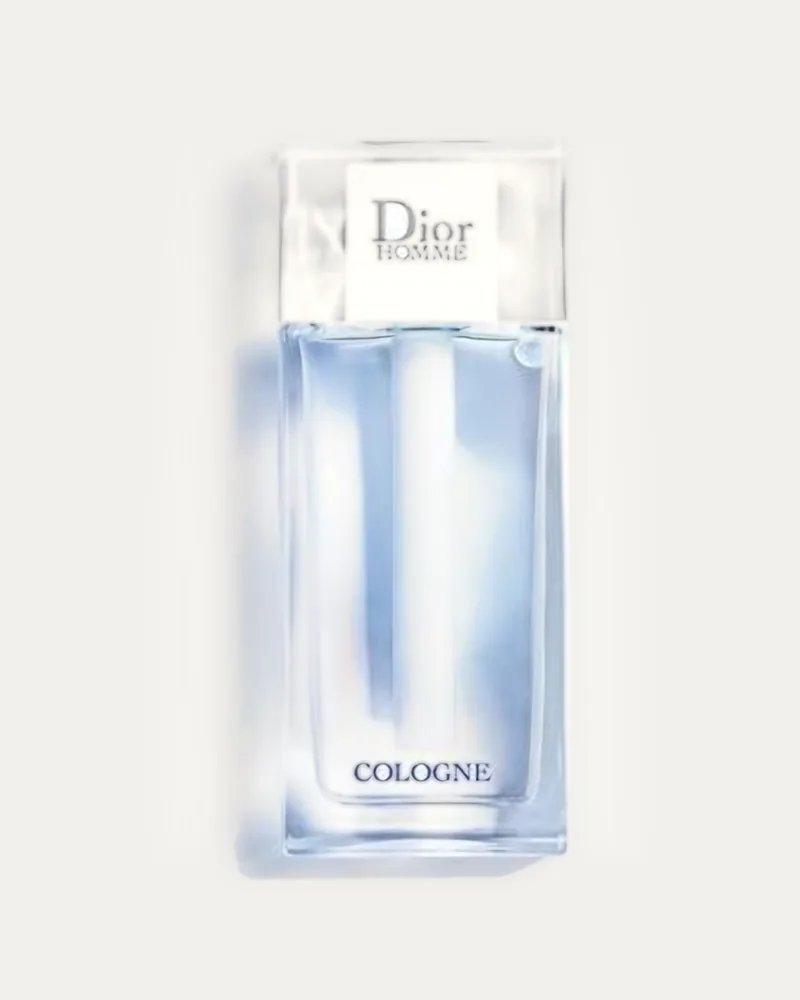
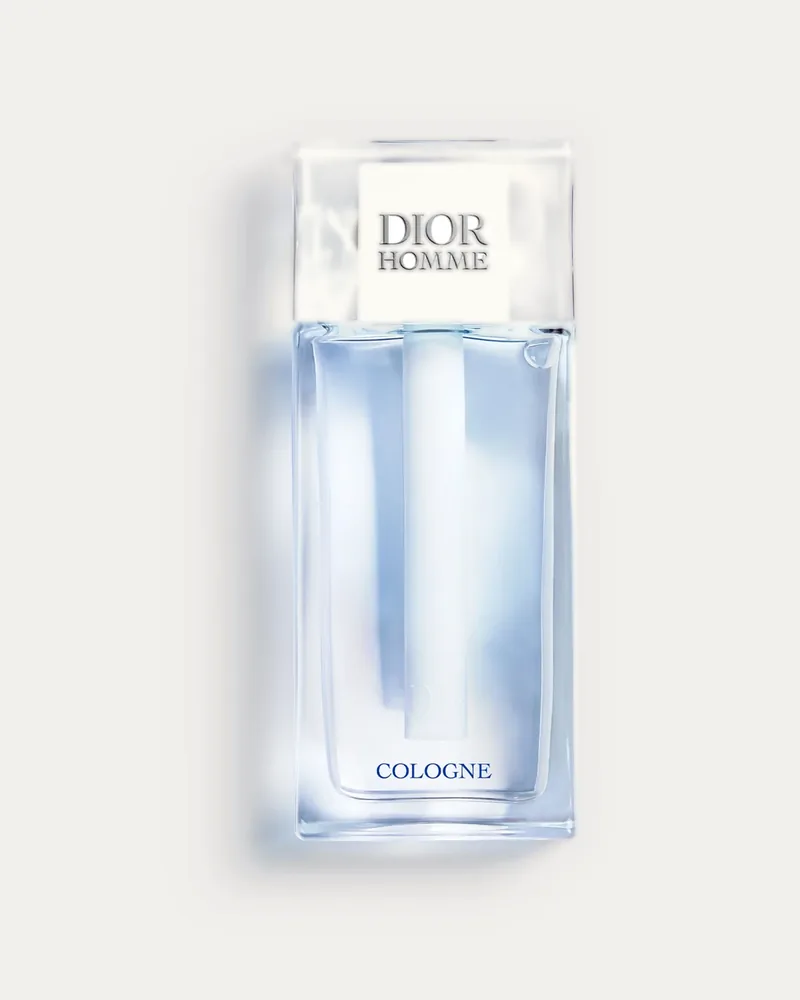
Zdjęcia p51 i p52 od właściciela, bon 50 zł za opóźnienie realizacji
- p52 Dior Sauvage Parfum (etykieta PARFUM, EDSR x2) i nowe p51 Dior Homme Cologne
  (1333 × 2000 px) z plików przysłanych w rozmowie; wszystkie 64 aktywne zapachy mają zdjęcie.
- zdjecia_wlasciciela.py: opcjonalna lista id, przetwarza tylko wskazane zdjęcia
  i podmienia ich wiersze w zrodla-wlasciciel.csv.
- Realizacja dłuższa niż 7 dni roboczych: bon 50 zł na kolejne zakupy od 199 zł
  w gwarancjach, FAQ, regulaminie (punkt 5, z TODO na zasady bonu) i w refs/README.md.
- docs: potwierdzony e-mail i termin 7 dni roboczych, decyzje 55 i 56, lista przed
  publikacją z pytaniami o wykorzystanie bonu.

Claude-Session: https://claude.ai/code/session_01Vr3aaGiTkwi36SuxXxU5aS

diff --git a/site/index.html b/site/index.html
@@ -299,7 +299,7 @@
     <li class="guarantee">
       <span class="guarantee__icon" aria-hidden="true"><svg viewBox="0 0 32 32" width="40" height="40" fill="none" stroke="currentColor" stroke-width="1.5" stroke-linecap="round" stroke-linejoin="round"><path d="M5 10.5 16 5l11 5.5v11L16 27 5 21.5Z"/><path d="M5 10.5 16 16l11-5.5M16 16v11M10.5 7.8l11 5.5"/></svg></span>
       <h3 class="guarantee__title">Wysyłka ze śledzeniem</h3>
-      <p>Paczkę nadajemy zwykle w ciągu 1 dnia roboczego od zaksięgowania wpłaty, a gdy zapach musimy sprowadzić, w ciągu 5 dni roboczych. W chwili nadania dostajesz mail z numerem przesyłki i linkiem do śledzenia.</p>
+      <p>Paczkę nadajemy zwykle w ciągu 1 dnia roboczego od zaksięgowania wpłaty, a gdy zapach musimy sprowadzić, w ciągu 5 dni roboczych. W chwili nadania dostajesz mail z numerem przesyłki i linkiem do śledzenia. Jeśli całe zamówienie zajmie nam więcej niż 7 dni roboczych, dostaniesz od nas bon na 50&nbsp;zł na kolejne zakupy za co najmniej 199&nbsp;zł.</p>
     </li>
   </ul></div>
 </section>
@@ -314,7 +314,7 @@
 <details class="faq__item" name="faq"><summary class="faq__q"><span>Jak wygląda odlewka i atomizer?</span><span class="faq__icon" aria-hidden="true"></span></summary><div class="faq__a"><p>Zapach przelewamy ręcznie do atomizera z rozpylaczem, w pojemności 5, 10 albo 20&nbsp;ml. W środku jest szklany flakonik w plastikowej oprawie, a na atomizerze etykieta z nazwą zapachu. Zmieści się w kieszeni i w kosmetyczce.</p></div></details>
 <details class="faq__item" name="faq"><summary class="faq__q"><span>Jak zapłacić BLIKiem na telefon?</span><span class="faq__icon" aria-hidden="true"></span></summary><div class="faq__a"><p>Po złożeniu zamówienia pokażemy numer telefonu, kwotę i tytuł przelewu, czyli numer zamówienia, na przykład NF0101. W aplikacji banku wybierasz przelew na telefon BLIK i przepisujesz te dane. To samo wyślemy Ci mailem. Wolisz zwykły przelew? Numer konta też tam będzie.</p></div></details>
 <details class="faq__item" name="faq"><summary class="faq__q"><span>Kiedy potwierdzicie moją wpłatę?</span><span class="faq__icon" aria-hidden="true"></span></summary><div class="faq__a"><p>Wpłaty sprawdzamy ręcznie w banku, rano i wieczorem. Gdy zobaczymy przelew z numerem zamówienia w tytule, potwierdzamy wpłatę, a Ty od razu dostajesz od nas maila.</p></div></details>
-<details class="faq__item" name="faq"><summary class="faq__q"><span>Ile trwa wysyłka?</span><span class="faq__icon" aria-hidden="true"></span></summary><div class="faq__a"><p>Wysyłamy tylko w Polsce, do paczkomatu InPost albo kurierem InPost, DPD lub DHL. Gdy zapach mamy na miejscu, paczka wychodzi zwykle w ciągu 1 dnia roboczego od zaksięgowania wpłaty. Jeśli musimy go sprowadzić, trwa to do 5 dni roboczych, a całe zamówienie realizujemy najpóźniej w 7 dni roboczych. Po nadaniu dostaniesz mail z numerem przesyłki i linkiem do śledzenia.</p></div></details>
+<details class="faq__item" name="faq"><summary class="faq__q"><span>Ile trwa wysyłka?</span><span class="faq__icon" aria-hidden="true"></span></summary><div class="faq__a"><p>Wysyłamy tylko w Polsce, do paczkomatu InPost albo kurierem InPost, DPD lub DHL. Gdy zapach mamy na miejscu, paczka wychodzi zwykle w ciągu 1 dnia roboczego od zaksięgowania wpłaty. Jeśli musimy go sprowadzić, trwa to do 5 dni roboczych, a całe zamówienie realizujemy najpóźniej w 7 dni roboczych. Jeśli potrwa to dłużej, dostaniesz od nas bon na 50&nbsp;zł na kolejne zakupy za co najmniej 199&nbsp;zł. Po nadaniu dostaniesz mail z numerem przesyłki i linkiem do śledzenia.</p></div></details>
 <details class="faq__item" name="faq"><summary class="faq__q"><span>Co jeśli zapłacę po terminie rezerwacji?</span><span class="faq__icon" aria-hidden="true"></span></summary><div class="faq__a"><p>Rezerwację trzymamy 24 godziny od złożenia zamówienia. Po 12 godzinach bez wpłaty przypomnimy się mailem, a po 24 rezerwacja wygasa i zapachy wracają do katalogu. Jeśli wpłata przyjdzie po terminie, i tak zrealizujemy zamówienie.</p></div></details>
 <details class="faq__item" name="faq"><summary class="faq__q"><span>Czy mogę zwrócić odlewkę?</span><span class="faq__icon" aria-hidden="true"></span></summary><div class="faq__a"><p>Odlewek nie przyjmujemy z powrotem. Jeśli jednak zapach dobieraliśmy razem na Instagramie i nie pasuje, wymienimy pełną odlewkę na inny z tej samej półki cenowej. Wynik quizu nie liczy się jako taka konsultacja. <span data-todo="faq-zwrot">{TODO: prawnik: zgodność z prawem odstąpienia od umowy, art. 38 ustawy o prawach konsumenta}</span></p></div></details>
 <details class="faq__item" name="faq"><summary class="faq__q"><span>Jak długo zapach utrzymuje się w odlewce?</span><span class="faq__icon" aria-hidden="true"></span></summary><div class="faq__a"><p>W atomizerze jest dokładnie ten sam zapach co we flakonie. Trzymaj go z dala od słońca i ciepła, wtedy długo się nie zmienia.</p></div></details>

diff --git a/site/regulamin.html b/site/regulamin.html
@@ -81,7 +81,7 @@
     </section>
     <section class="legal__sec" id="s5">
       <h2>5. Dostawa</h2>
-      <p>Wysyłamy wyłącznie na terenie Polski, do paczkomatu InPost albo kurierem InPost, DPD lub DHL. Koszt dostawy widać w podsumowaniu przed złożeniem zamówienia. Paczkę nadajemy zwykle w ciągu 1 dnia roboczego od zaksięgowania wpłaty, a gdy zapach trzeba sprowadzić, w ciągu 5 dni roboczych. Zamówienie realizujemy najpóźniej w 7 dni roboczych od zaksięgowania wpłaty. Numer przesyłki wysyłamy mailem.</p>
+      <p>Wysyłamy wyłącznie na terenie Polski, do paczkomatu InPost albo kurierem InPost, DPD lub DHL. Koszt dostawy widać w podsumowaniu przed złożeniem zamówienia. Paczkę nadajemy zwykle w ciągu 1 dnia roboczego od zaksięgowania wpłaty, a gdy zapach trzeba sprowadzić, w ciągu 5 dni roboczych. Zamówienie realizujemy najpóźniej w 7 dni roboczych od zaksięgowania wpłaty. Jeśli realizacja potrwa dłużej, dostaniesz bon o wartości 50&nbsp;zł na kolejne zakupy, do wykorzystania przy zamówieniu o wartości co najmniej 199&nbsp;zł. <span data-todo>{TODO: zasady bonu do potwierdzenia z właścicielem i prawnikiem: jak go przekazujemy i jak z niego skorzystać, termin ważności, czy 199 zł liczymy z kosztem dostawy}</span> Numer przesyłki wysyłamy mailem.</p>
     </section>
     <section class="legal__sec" id="s6">
       <h2>6. Prawo odstąpienia od umowy</h2>

diff --git a/dev/zdjecia/zdjecia_wlasciciela.py b/dev/zdjecia/zdjecia_wlasciciela.py
@@ -3,14 +3,15 @@
 Zdjęcia flakonów przysłane przez właściciela (Dysk, folder „Nicci Fragrance”), dla produktów, których strony
 producentów blokują pobieranie.
 
-  python3 dev/zdjecia/zdjecia_wlasciciela.py <katalog_z_plikami_z_dysku>
+  python3 dev/zdjecia/zdjecia_wlasciciela.py <katalog_z_plikami_z_dysku> [id ...]
   python3 dev/zdjecia/ujednolic_zdjecia.py dev/zdjecia/zrodla/wlasciciel
 
 Pierwszy krok kopiuje pliki pod nazwą id produktu do dev/zdjecia/zrodla/wlasciciel/ (poza gitem). Zdjęcie, którego
 krótszy bok ma mniej niż 1000 px, najpierw powiększa EDSR (x2, w razie potrzeby dwa razy), bo na karcie flakon
 ma ok. 740 px wysokości. Potem czyści tło (czyste_tlo) i zapisuje bezstratnie jako PNG. Wymaga
 opencv-contrib-python-headless w venv, jak dev/grafiki/hero_telefon.py.
-Źródła trafiają do dev/zdjecia/zrodla-wlasciciel.csv (raport końcowy).
+Źródła trafiają do dev/zdjecia/zrodla-wlasciciel.csv (raport końcowy). Z listą id skrypt przetwarza tylko te
+zdjęcia i podmienia ich wiersze w CSV, reszty nie rusza.
 """
 import csv
 import os
@@ -29,8 +30,8 @@ JASNE = 250          # tło JPG: piksele jaśniejsze od tego progu, połączone 
 # PNG, w których wokół flakonu zostały nieprzezroczyste białe resztki tła (p64: pola obok nakrętki)
 RESZTKI_BIELI = {'p64': 245}
 
-# id: plik z Dysku. p52 (Sauvage Parfum) celowo pominięty: przysłany plik to Sauvage Eau de Parfum
-# (inne stężenie, etykieta „EAU DE PARFUM”), czekamy na właściwe zdjęcie.
+# id: plik od właściciela. Większość z folderu na Dysku; p51 i p52 przysłane później w rozmowie („(czat)” w nazwie):
+# pierwszy plik p52 z Dysku przedstawiał Sauvage Eau de Parfum, a pierwsze p51 miało tylko 640 × 335 px.
 PLIKI = {
     'p01': 'louis-vuitton-imagination--LP0476_PM2_Front view.webp',
     'p02': 'louis-vuitton-pacific-chill---LP0460_PM2_Front view.webp',
@@ -39,7 +40,8 @@ PLIKI = {
     'p05': 'louis-vuitton-ombre-nomade--LP0096_PM2_Front view.webp',
     'p42': 'grandsoirpack.png',
     'p43': 'Maison_Francis_Kurdjian_-_Baccarat_Rouge_540_disponible_en_abanuc.webp',
-    'p51': 'Dior Homme Cologne.jpg',
+    'p51': 'dior-homme-cologne (czat).webp',
+    'p52': 'dior-sauvage-parfum (czat).png',
     'p53': 'sauvage elixir.png',
     'p54': 'dior-sauvage-extrait-parfum.png',
     'p55': 'versace-eros-parfum-perfume-cologne-238192.webp',
@@ -89,10 +91,12 @@ def czyste_tlo(im, pid):
 
 
 def main():
-    src_dir = sys.argv[1]
+    src_dir, only = sys.argv[1], set(sys.argv[2:])
     os.makedirs(OUT, exist_ok=True)
     rows = []
     for pid, name in PLIKI.items():
+        if only and pid not in only:
+            continue
         im = Image.open(os.path.join(src_dir, name))
         im = im.convert('RGBA') if im.mode in ('RGBA', 'LA', 'P') else im.convert('RGB')
         if im.mode == 'RGBA' and im.getchannel('A').getextrema()[0] == 255:
@@ -111,10 +115,16 @@ def main():
         rows.append({'id': pid, 'plik_od_wlasciciela': name, 'rozmiar_zrodla': '%dx%d' % size0,
                      'powiekszenie': 'EDSR x%d' % (2 ** steps) if steps else ''})
         print(pid, name, size0, '->', im.size, ('EDSR x%d' % (2 ** steps)) if steps else '')
-    with open(os.path.join(HERE, 'zrodla-wlasciciel.csv'), 'w', newline='', encoding='utf-8') as f:
+    report = os.path.join(HERE, 'zrodla-wlasciciel.csv')
+    merged = {}
+    if only and os.path.exists(report):
+        with open(report, newline='', encoding='utf-8') as f:
+            merged = {r['id']: r for r in csv.DictReader(f)}
+    merged.update({r['id']: r for r in rows})
+    with open(report, 'w', newline='', encoding='utf-8') as f:
         w = csv.DictWriter(f, fieldnames=['id', 'plik_od_wlasciciela', 'rozmiar_zrodla', 'powiekszenie'])
         w.writeheader()
-        w.writerows(rows)
+        w.writerows(merged[k] for k in sorted(merged))
 
 
 if __name__ == '__main__':

diff --git a/docs/raport-koncowy.md b/docs/raport-koncowy.md
@@ -42,6 +42,7 @@ Każdy `{TODO}` na stronie ma przerywaną ramkę (`[data-todo]`), więc widać g
 | `regulamin.html:66`, `prywatnosc.html:66` | imię i nazwisko oraz adres sprzedawcy i administratora danych |
 | `regulamin.html:70` | sformułowanie i status sprzedaży odlewek |
 | `regulamin.html:75` | moment zawarcia umowy: złożenie zamówienia czy zaksięgowanie wpłaty |
+| `regulamin.html:84` | zasady bonu 50 zł za realizację dłuższą niż 7 dni roboczych: przekazanie i wykorzystanie, termin ważności, próg z dostawą czy bez |
 | `regulamin.html:88` | prawo odstąpienia, formularz odstąpienia; zasady właściciela są wpisane w TODO do oceny |
 | `regulamin.html:92` | reklamacje: jak zgłosić, termin odpowiedzi, zwrot pieniędzy |
 | `regulamin.html:100` | prawo właściwe, pozasądowe rozwiązywanie sporów, data wejścia w życie |
@@ -66,7 +67,7 @@ Hero i grafika Open Graph powstały z materiału właściciela (`refs/hero-czyst
 
 ## 3. Źródła zdjęć produktów
 
-63 z 64 aktywnych produktów ma zdjęcie: 49 ze stron producentów (tabela niżej) i 14 od właściciela (akapit pod tabelą). Źródło tych 49: oficjalne strony i sklepy producentów. `robots.txt` każdej domeny był sprawdzony i przestrzegany, Fragrantiki nie pobieraliśmy, a zabezpieczeń przed botami (403, Cloudflare) nie obchodziliśmy. Pełne adresy obrazów: `dev/zdjecia/zrodla-wybrane.csv` (użyte) i `dev/zdjecia/zrodla.csv` (wszyscy kandydaci). Obróbka: tło #F1EFEC, kadr 4:5, flakon bez zmian (`dev/zdjecia/ujednolic_zdjecia.py`).
+Wszystkie 64 aktywne produkty mają zdjęcie: 49 ze stron producentów (tabela niżej) i 15 od właściciela (akapit pod tabelą). Źródło tych 49: oficjalne strony i sklepy producentów. `robots.txt` każdej domeny był sprawdzony i przestrzegany, Fragrantiki nie pobieraliśmy, a zabezpieczeń przed botami (403, Cloudflare) nie obchodziliśmy. Pełne adresy obrazów: `dev/zdjecia/zrodla-wybrane.csv` (użyte) i `dev/zdjecia/zrodla.csv` (wszyscy kandydaci). Obróbka: tło #F1EFEC, kadr 4:5, flakon bez zmian (`dev/zdjecia/ujednolic_zdjecia.py`).
 
 To materiały marek. Przed startem warto potwierdzić prawo do ich użycia albo zastąpić je własnymi zdjęciami flakonów i atomizerów Nicci.
 
@@ -122,7 +123,7 @@ To materiały marek. Przed startem warto potwierdzić prawo do ich użycia albo 
 | p70 | Azzaro | Forever Wanted Elixir | https://www.azzaro.com/en/fragrances/azzaro-forever-wanted-elixir/eau-de-parfum |  |
 | p71 | Azzaro | The Most Wanted Parfum | https://www.azzaro.com/en/fragrances/azzaro-the-most-wanted/parfum |  |
 
-**Zdjęcia od właściciela (24.09.2026):** 14 z 15 produktów, których strony producentów blokują pobieranie (p01 do p05, p42, p43, p51, p53 do p55, p63 do p65), ma zdjęcie z folderu „Nicci Fragrance” na Dysku właściciela. Pliki i rozmiary źródeł: `dev/zdjecia/zrodla-wlasciciel.csv`, obróbka opisana w `docs/03-plan-grafik.md`. Brakuje p52 Dior Sauvage Parfum (przysłany plik przedstawia Sauvage Eau de Parfum), karta pokazuje kadr zastępczy z inicjałem marki. p51 ma słabe źródło (640 × 335 px).
+**Zdjęcia od właściciela (24.09.2026):** wszystkie 15 produktów, których strony producentów blokują pobieranie (p01 do p05, p42, p43, p51 do p55, p63 do p65), ma zdjęcie od właściciela: 13 z folderu „Nicci Fragrance” na Dysku, p51 i p52 z plików przysłanych w rozmowie. Pliki i rozmiary źródeł: `dev/zdjecia/zrodla-wlasciciel.csv`, obróbka opisana w `docs/03-plan-grafik.md`.
 
 ## 4. Wyniki audytu
 
@@ -193,7 +194,7 @@ Opisy, nuty, sezon, pora, trwałość, projekcja i intensywność są uzupełnio
 
 **Stanów:** `ml_dostepne` puste w 62 produktach (patrz blokada 1). Wypełnione tylko p34 i p37, oba 0 ml.
 
-**Zdjęć:** p52 Dior Sauvage Parfum (punkt 3).
+**Zdjęć:** brak braków, wszystkie 64 aktywne produkty mają zdjęcie (punkt 3).
 
 **Cen:** strona pokazuje tylko pojemności z ceną, więc te warianty są ukryte. p34 i p37 nie mają żadnej ceny i mają 0 ml, więc są wyprzedane (widać je po wyłączeniu filtra „Tylko dostępne”). Produkt ze stanem, ale bez żadnej ceny, backend teraz pomija, a diagnostyka zgłasza go jako błąd.
 
@@ -207,7 +208,7 @@ Opisy, nuty, sezon, pora, trwałość, projekcja i intensywność są uzupełnio
 
 **Zestawów:** żaden z 6 aktywnych nie ma opisu dla klienta (arkusz ma tylko opis dla doradcy). Rodzinę ma tylko z04, więc quiz nie proponuje zestawu z innych rodzin. z04 jest niedostępny, bo zawiera p34 (0 ml); z07 zawiera p60, który jest nieaktywny.
 
-**Pola do weryfikacji:** `dev/dane/do-weryfikacji.csv`, 119 wierszy dla 61 pozycji (najwięcej: rodzina 28, sezon 19, nuty i osiągi 17, podobne 10; stan na 24.09.2026, po dodaniu zdjęć właściciela). Okazja p01 w źródle to liczba 11, więc w imporcie jest pusta.
+**Pola do weryfikacji:** `dev/dane/do-weryfikacji.csv`, 118 wierszy dla 60 pozycji (najwięcej: rodzina 28, sezon 19, nuty i osiągi 17, podobne 10; stan na 24.09.2026, po dodaniu zdjęć właściciela). Okazja p01 w źródle to liczba 11, więc w imporcie jest pusta.
 
 **Profil:** w arkuszu są tylko zapachy męskie (25) i unisex (39). Odpowiedź „Dla niej” w quizie pokazuje zapachy unisex.
 

diff --git a/docs/lista-przed-publikacja.md b/docs/lista-przed-publikacja.md
@@ -1,6 +1,6 @@
 # Co przygotować przed publikacją
 
-Stan na 24.09.2026, po Twoich odpowiedziach. Odpowiedzi A, B, C, E i F są już na stronie, w mailach i w Apps Script (szczegóły w `docs/decyzje.md`, punkty 46 do 54). Zostało to, co poniżej.
+Stan na 24.09.2026, po Twoich odpowiedziach. Odpowiedzi A, B, C, E i F są już na stronie, w mailach i w Apps Script (szczegóły w `docs/decyzje.md`, punkty 46 do 56). E-mail `kontakt@niccifragrance.pl` i termin 7 dni roboczych potwierdziłeś. Zostało to, co poniżej.
 
 * **Część 1: wyślij mi.** Materiały i potwierdzenia, które wpiszę na stronę.
 * **Część 2: wpisujesz sam.** Dane do płatności i e-mail wpisujesz bezpośrednio w Apps Script. Repozytorium jest publiczne, więc te dane nie powinny w nim leżeć.
@@ -12,12 +12,16 @@ Stan na 24.09.2026, po Twoich odpowiedziach. Odpowiedzi A, B, C, E i F są już 
 
 ## Część 1. Wyślij mi
 
-### Potwierdzenia do Twoich odpowiedzi
+### Bon 50 zł za opóźnienie
+
+Na stronie i w regulaminie jest już Twoja zasada: jeśli realizacja potrwa dłużej niż 7 dni roboczych, klient dostaje bon na 50 zł na kolejne zakupy za co najmniej 199 zł. Brakuje ustaleń, bez których klient nie ma jak z bonu skorzystać:
 
 ```
-1. ★ Adres e-mail: w odpowiedzi było „kontakt@niccifrangrance.pl”, a domena to niccifragrance.pl.
-   Na stronie wpisałem kontakt@niccifragrance.pl. Zgadza się?
-2. „Realizacja do 7”: na stronie jest „najpóźniej w 7 dni roboczych” od zaksięgowania wpłaty. Zgadza się?
+1. Jak klient ma użyć bonu? Formularz zamówienia nie ma dziś pola na kod.
+   Propozycja: pole „Kod bonu” w zamówieniu i zakładka Bony w arkuszu (kod, kwota, próg, data ważności,
+   wykorzystany); backend sprawdza kod i odejmuje 50 zł od kwoty do zapłaty.
+2. Termin ważności bonu:
+3. Czy próg 199 zł liczymy z kosztem dostawy, czy tylko za zapachy:
 ```
 
 ### D. ★ Regulamin i polityka prywatności (wyślesz później)
@@ -31,12 +35,11 @@ Najlepiej gotowe teksty od prawnika. Szkielety są pod `/regulamin` i `/prywatno
 
 Obie strony mają dziś `noindex` i dopisek „nie publikować w tej postaci”. Po wstawieniu zatwierdzonych tekstów zdejmę jedno i drugie.
 
-### E. Zdjęcia: dwa flakony
+### E. Zdjęcia: gotowe
 
-14 z 15 flakonów ma już na stronie zdjęcie z Twojego Dysku. Przezroczyste i białe tła dostały ten sam jasny, ciepły kolor co pozostałe 49 kart (#F1EFEC), a nie czystą biel, żeby siatka katalogu była równa. Jeśli wolisz biel, mogę ją ustawić na wszystkich kartach. Zostały dwie sprawy:
+Wszystkie 15 flakonów ma na stronie Twoje zdjęcie, więc zdjęcie ma teraz każdy z 64 aktywnych zapachów. p51 Dior Homme Cologne i p52 Dior Sauvage Parfum są z plików przysłanych w rozmowie 24.09. Przezroczyste i białe tła dostały ten sam jasny, ciepły kolor co pozostałe karty (#F1EFEC), a nie czystą biel, żeby siatka katalogu była równa. Jeśli wolisz biel, mogę ją ustawić na wszystkich kartach.
 
-| id | Zapach | Co jest nie tak |
-|---|---|---|
+---|---|---|
 | p52 | Dior Sauvage Parfum | Plik z Dysku to Sauvage Eau de Parfum, inne stężenie i inna etykieta. Karta pokazuje kadr z inicjałami. |
 | p51 | Dior Homme Cologne | Jest na stronie, ale źródło ma 640 × 335 px i flakon zajmuje mały fragment. Powiększyłem je, ale ostrość jest słabsza niż przy innych kartach. Lepsze zdjęcie się przyda. |
 
@@ -89,8 +92,8 @@ Nie mam dostępu do Twojego konta Cloudflare. Połącz repozytorium według `doc
 5. Opisy zestawów dla klienta: żaden z 6 aktywnych nie ma (arkusz ma tylko opis dla doradcy). Możesz przysłać fakty, a ja napiszę teksty.
 6. Rodziny zestawów: ma ją tylko z04, więc quiz nie proponuje zestawu z innych rodzin.
 7. Zestaw z07 zawiera p60, który jest nieaktywny, więc zestaw jest niedostępny. Aktywować p60 czy zmienić skład?
-8. Plik do weryfikacji: dev/dane/do-weryfikacji.csv, 119 wierszy dla 61 pozycji; najwięcej dotyczy rodziny (28), sezonu (19), nut i osiągów (17) oraz podobnych zapachów (10). Każdy wiersz ma powód. Popraw w arkuszu albo odeślij mi decyzje.
-9. zdjecie_url: 14 zapachów z Twoimi zdjęciami ma adres w pliku importu dev/dane/import-do-arkusza.xlsx. Jeśli zakładkę Produkty wypełniłeś wcześniej, wpisz dla p01 do p05, p42, p43, p51, p53, p54, p55, p63, p64 i p65 adres /img/produkty/ID-800.webp (np. /img/produkty/p43-800.webp).
+8. Plik do weryfikacji: dev/dane/do-weryfikacji.csv, 118 wierszy dla 60 pozycji; najwięcej dotyczy rodziny (28), sezonu (19), nut i osiągów (17) oraz podobnych zapachów (10). Każdy wiersz ma powód. Popraw w arkuszu albo odeślij mi decyzje.
+9. zdjecie_url: 15 zapachów z Twoimi zdjęciami ma adres w pliku importu dev/dane/import-do-arkusza.xlsx. Jeśli zakładkę Produkty wypełniłeś wcześniej, wpisz dla p01 do p05, p42, p43 i p51 do p55, p63, p64 i p65 adres /img/produkty/ID-800.webp (np. /img/produkty/p43-800.webp).
 ```
 
 Po uzupełnieniu uruchom `diagnostyka` w Apps Script, wypisze to, co jeszcze się nie zgadza.

diff --git a/docs/03-plan-grafik.md b/docs/03-plan-grafik.md
@@ -95,12 +95,12 @@ Słownik `site/js/nuty.js` przypisuje nutę do miniatury po rdzeniu słowa (np. 
 | Sklep Shopify: wyszukiwarka i dane produktu | Xerjoff, Amouage, Creed, Tom Ford, Marc-Antoine Barrois, Maison Crivelli, Essential Parfums, Nutu, Tiziana Terenzi, Sospiro | 31 |
 | Strona produktu, `og:image` | Mancera, Montale, BOSS | 13 |
 | Strona budowana skryptem, render w Chromium | Rabanne, Azzaro | 6 |
-| Zdjęcia od właściciela (Dysk) | Louis Vuitton, Maison Francis Kurkdjian, Dior, Versace, YSL, Hermès | 14 |
-| **Razem ze zdjęciem** | | **63 z 64 aktywnych** |
+| Zdjęcia od właściciela (Dysk i rozmowa) | Louis Vuitton, Maison Francis Kurkdjian, Dior, Versace, YSL, Hermès | 15 |
+| **Razem ze zdjęciem** | | **64 z 64 aktywnych** |
 
 **Bez zdjęcia ze stron producentów (15), strony odpowiadają 403 albo ekranem Cloudflare także przeglądarce:** Louis Vuitton (Imagination, Pacific Chill, Afternoon Swim, Nouveau Monde, Ombre Nomade), Maison Francis Kurkdjian (Grand Soir, Baccarat Rouge 540), Dior (Homme Cologne, Sauvage Parfum, Sauvage Elixir, Sauvage Extrait), Versace (Eros Parfum), YSL (Y Parfum, MYSLF Parfum), Hermès (Terre d'Hermès Eau Intense Vétiver).
 
-**Zdjęcia od właściciela (24.09.2026, 14 z 15):** folder „Nicci Fragrance” na Dysku. `dev/zdjecia/zdjecia_wlasciciela.py` przypisuje pliki do id, zdjęcia z krótszym bokiem poniżej 1000 px powiększa EDSR ×2 (p42, p64 i p65 raz, p04, p51 i p54 dwa razy), usuwa kanał alfa bez przezroczystości, a jasne tło połączone z krawędzią zamienia na czystą biel (w p64 białe resztki przy nakrętce na przezroczystość). Szum tła (254 zamiast 255) trafiał do mapy cieniowania i zostawiał na karcie jaśniejszy prostokąt wokół flakonu. Pliki pośrednie są w PNG, bez stratnej kompresji. Potem `ujednolic_zdjecia.py dev/zdjecia/zrodla/wlasciciel`, z tym samym tłem #F1EFEC co reszta katalogu (przezroczyste tło też dostaje ten kolor zamiast białego, żeby siatka była równa). Nazwy plików i rozmiary źródeł: `dev/zdjecia/zrodla-wlasciciel.csv`. Brakuje p52 Sauvage Parfum: przysłany plik to Sauvage Eau de Parfum, inne stężenie i etykieta. p51 Dior Homme Cologne ma słabe źródło (640 × 335 px, mały flakon), więc przyda się lepsze zdjęcie.
+**Zdjęcia od właściciela (24.09.2026, 15 z 15):** folder „Nicci Fragrance” na Dysku, a p51 i p52 z plików przysłanych w rozmowie („(czat)” w nazwie). `dev/zdjecia/zdjecia_wlasciciela.py` przypisuje pliki do id, zdjęcia z krótszym bokiem poniżej 1000 px powiększa EDSR ×2 (p42, p52, p64 i p65 raz, p04 i p54 dwa razy), usuwa kanał alfa bez przezroczystości, a jasne tło połączone z krawędzią zamienia na czystą biel (w p64 białe resztki przy nakrętce na przezroczystość). Szum tła (254 zamiast 255) trafiał do mapy cieniowania i zostawiał na karcie jaśniejszy prostokąt wokół flakonu. Pliki pośrednie są w PNG, bez stratnej kompresji. Potem `ujednolic_zdjecia.py dev/zdjecia/zrodla/wlasciciel`, z tym samym tłem #F1EFEC co reszta katalogu (przezroczyste tło też dostaje ten kolor zamiast białego, żeby siatka była równa). Nazwy plików i rozmiary źródeł: `dev/zdjecia/zrodla-wlasciciel.csv`. Pierwsze pliki p51 (640 × 335 px) i p52 (Sauvage Eau de Parfum zamiast Parfum) zastąpiły zdjęcia z rozmowy. Z listą id skrypt przetwarza tylko te zdjęcia, np. `zdjecia_wlasciciela.py <katalog> p51 p52`.
 
 Ujednolicenie (`dev/zdjecia/przygotuj_wejscie.py`, potem `ujednolic_zdjecia.py`): kadr 4:5, tło #F1EFEC, flakon na 74% wysokości, podstawa na 88%. Flakon kopiowany bez zmian; tło i cień przenoszone jako mapa cieniowania (źródło podzielone przez model tła), więc cień zostaje miękki, a tło wychodzi równe. PNG z przezroczystością (Xerjoff, Tom Ford, Montale, Crivelli, Azzaro) wklejane po kanale alfa. Z dwóch zdjęć (Bois Pacifique, 1 Million) usunięta plakietka nagrody Fragrance Foundation. Pliki: `site/img/produkty/{id}-400|800.webp`, adres w arkuszu: `/img/produkty/{id}-800.webp`.
 

diff --git a/docs/decyzje.md b/docs/decyzje.md
@@ -100,14 +100,16 @@
 | 52 | Kursywa hero | Carattere (SIL OFL, podzbiór z polskimi znakami, 21 KB, hostowany lokalnie) zamiast pochylonego Cormoranta. Rozmiar ×1,38 na telefonie i ×1,47 od 80rem: szerokość drugiej linii to 0,76 pierwszej, jak w makiecie. Na prośbę właściciela zawijas „Z” nie nachodzi na pierwszą linię: między linią bazową pierwszej linii a górą „Z” jest 3 do 6 px na każdej szerokości (górny margines drugiej linii −0,19 em od 80rem, −0,18 em węższe ekrany). Żeby przyciski nie weszły na magnolię od 1280 px, tekst hero zaczyna się wyżej (8vw zamiast 9vw), a odstępy w hero mają 1,45vw. | właściciel, pomiar makiety |
 | 53 | Oferta | „Dla niej” w quizie zostaje z zapachami unisex; damskie flakony dojdą z rozwojem oferty. Zdjęcia producentów przy 49 zapachach zostają. | właściciel |
 | 54 | Nazwa marki | „Nicci Fragrance” wszędzie, także w `refs/README.md` i szablonach Instagrama (linki poprawione na `/quiz?src=...`). Wyjątek bez zmian: komentarz w nagłówku `nicci-api.js` i pliki briefu. | właściciel |
+| 55 | Zdjęcia p51 i p52 | Przysłane w rozmowie: p52 Sauvage Parfum (etykieta „PARFUM”, 649 px, powiększone EDSR ×2) i nowe p51 Dior Homme Cologne (1333 × 2000 px) w miejsce słabego pliku z Dysku. Wszystkie 64 aktywne zapachy mają zdjęcie, więc kolejność w grupie wynika już tylko z kolumny `kolejnosc`; reguła „najpierw ze zdjęciem” (decyzja 26) zostaje w kodzie na wypadek nowego zapachu bez zdjęcia. | właściciel |
+| 56 | Termin i bon | Właściciel potwierdził `kontakt@niccifragrance.pl` i realizację w 7 dni roboczych. Gdy realizacja potrwa dłużej, klient dostaje bon 50 zł na kolejne zakupy od 199 zł: w gwarancjach, FAQ, regulaminie (punkt 5, z `{TODO}` na zasady bonu) i w `refs/README.md`. Sposób wykorzystania bonu czeka na decyzję, bo formularz nie ma pola na kod. | właściciel |
 
 ## Otwarte
 
-* Weryfikacja `dev/dane/do-weryfikacji.csv` (119 wierszy dla 61 pozycji), w tym profil wszystkich zapachów i rodziny z członem spoza listy.
+* Weryfikacja `dev/dane/do-weryfikacji.csv` (118 wierszy dla 60 pozycji), w tym profil wszystkich zapachów i rodziny z członem spoza listy.
 * `ml_dostepne` dla wszystkich aktywnych pozycji: puste w 62 z 64, bez tego backend uzna je za niedostępne. Pełna lista braków: `docs/raport-koncowy.md`.
 * Opisy zestawów dla klienta i rodziny zestawów (bez rodziny quiz nie zaproponuje zestawu).
 * Wartości w `CONFIG` Apps Script: e-mail właściciela, BLIK, konto, odbiorca, koszty dostawy, próg darmowej dostawy.
 * Regulamin i polityka prywatności od prawnika, w tym dane sprzedawcy i ocena zasad zwrotu.
-* Zdjęcie p52 Dior Sauvage Parfum (przysłane było Eau de Parfum) i lepsze zdjęcie p51 Dior Homme Cologne (źródło 640 × 335 px).
+* Bon 50 zł za opóźnienie: sposób wykorzystania (pole na kod i zakładka Bony?), termin ważności, czy próg 199 zł obejmuje dostawę.
 * Skrzynka `kontakt@niccifragrance.pl` musi działać przed startem: adres jest w stopce, regulaminie, polityce i mailach.
 * Prawa do packshotów producentów: to materiały marek. Na dłuższą metę bezpieczniejsze są własne zdjęcia flakonów i atomizerów Nicci (rekomendacja z promptu).

diff --git a/refs/README.md b/refs/README.md
@@ -143,6 +143,8 @@ Wpis przy każdej płatności i korekta przy anulowaniu opłaconego zamówienia.
 4. Przy kurierze wybierz firmę w kolumnie `przewoznik`. Wklej numer przesyłki w kolumnę `numer_przesylki`. Status zmieni się na WYSŁANE i klient dostanie link do śledzenia u tego przewoźnika. Przy paczkomacie kolumna `przewoznik` może zostać pusta.
 5. Nowy flakon: dodaj jego ml do `ml_dostepne`. Koniec zapachu: `aktywny` na NIE albo zostaw z zerowym stanem (karta pokaże "Wyprzedane").
 
+Termin realizacji: najpóźniej 7 dni roboczych od zaksięgowania wpłaty. Jeśli potrwa dłużej, klientowi należy się bon 50 zł na kolejne zakupy od 199 zł (regulamin, punkt 5).
+
 Wpłata po terminie rezerwacji: i tak ustaw OPŁACONE i zrealizuj zamówienie. System wyśle Ci mail z prośbą o sprawdzenie dostępności. Jeśli zapachu brakuje, sprowadź go (do 5 dni roboczych). Zwrot pieniędzy: ustaw ANULOWANE (ml wrócą na stan, w ewidencji pojawi się korekta), a przelew zwrotny zrób ręcznie.
 
 ## Testy przed startem

diff --git a/dev/dane/raport-konwersji.md b/dev/dane/raport-konwersji.md
@@ -2,7 +2,7 @@
 
 Wygenerowany przez `dev/konwersja_arkusza.py`. Wszystkie wartości oznaczone w zakładce „Do weryfikacji” są propozycją do akceptacji właściciela.
 
-Produkty: 71 (aktywne: 64, wyłączone: 7). Zestawy: 7. Pozycji do weryfikacji: 119.
+Produkty: 71 (aktywne: 64, wyłączone: 7). Zestawy: 7. Pozycji do weryfikacji: 118.
 
 ## Rodziny aktywnych produktów
 
@@ -100,8 +100,8 @@ Produkty: 71 (aktywne: 64, wyłączone: 7). Zestawy: 7. Pozycji do weryfikacji: 
 | opis | 7 |
 | pora | 5 |
 | ml_dostepne | 5 |
-| zdjecie_url | 5 |
 | sklad | 5 |
+| zdjecie_url | 4 |
 | ceny | 3 |
 | aktywny | 3 |
 | marka, nazwa | 3 |
